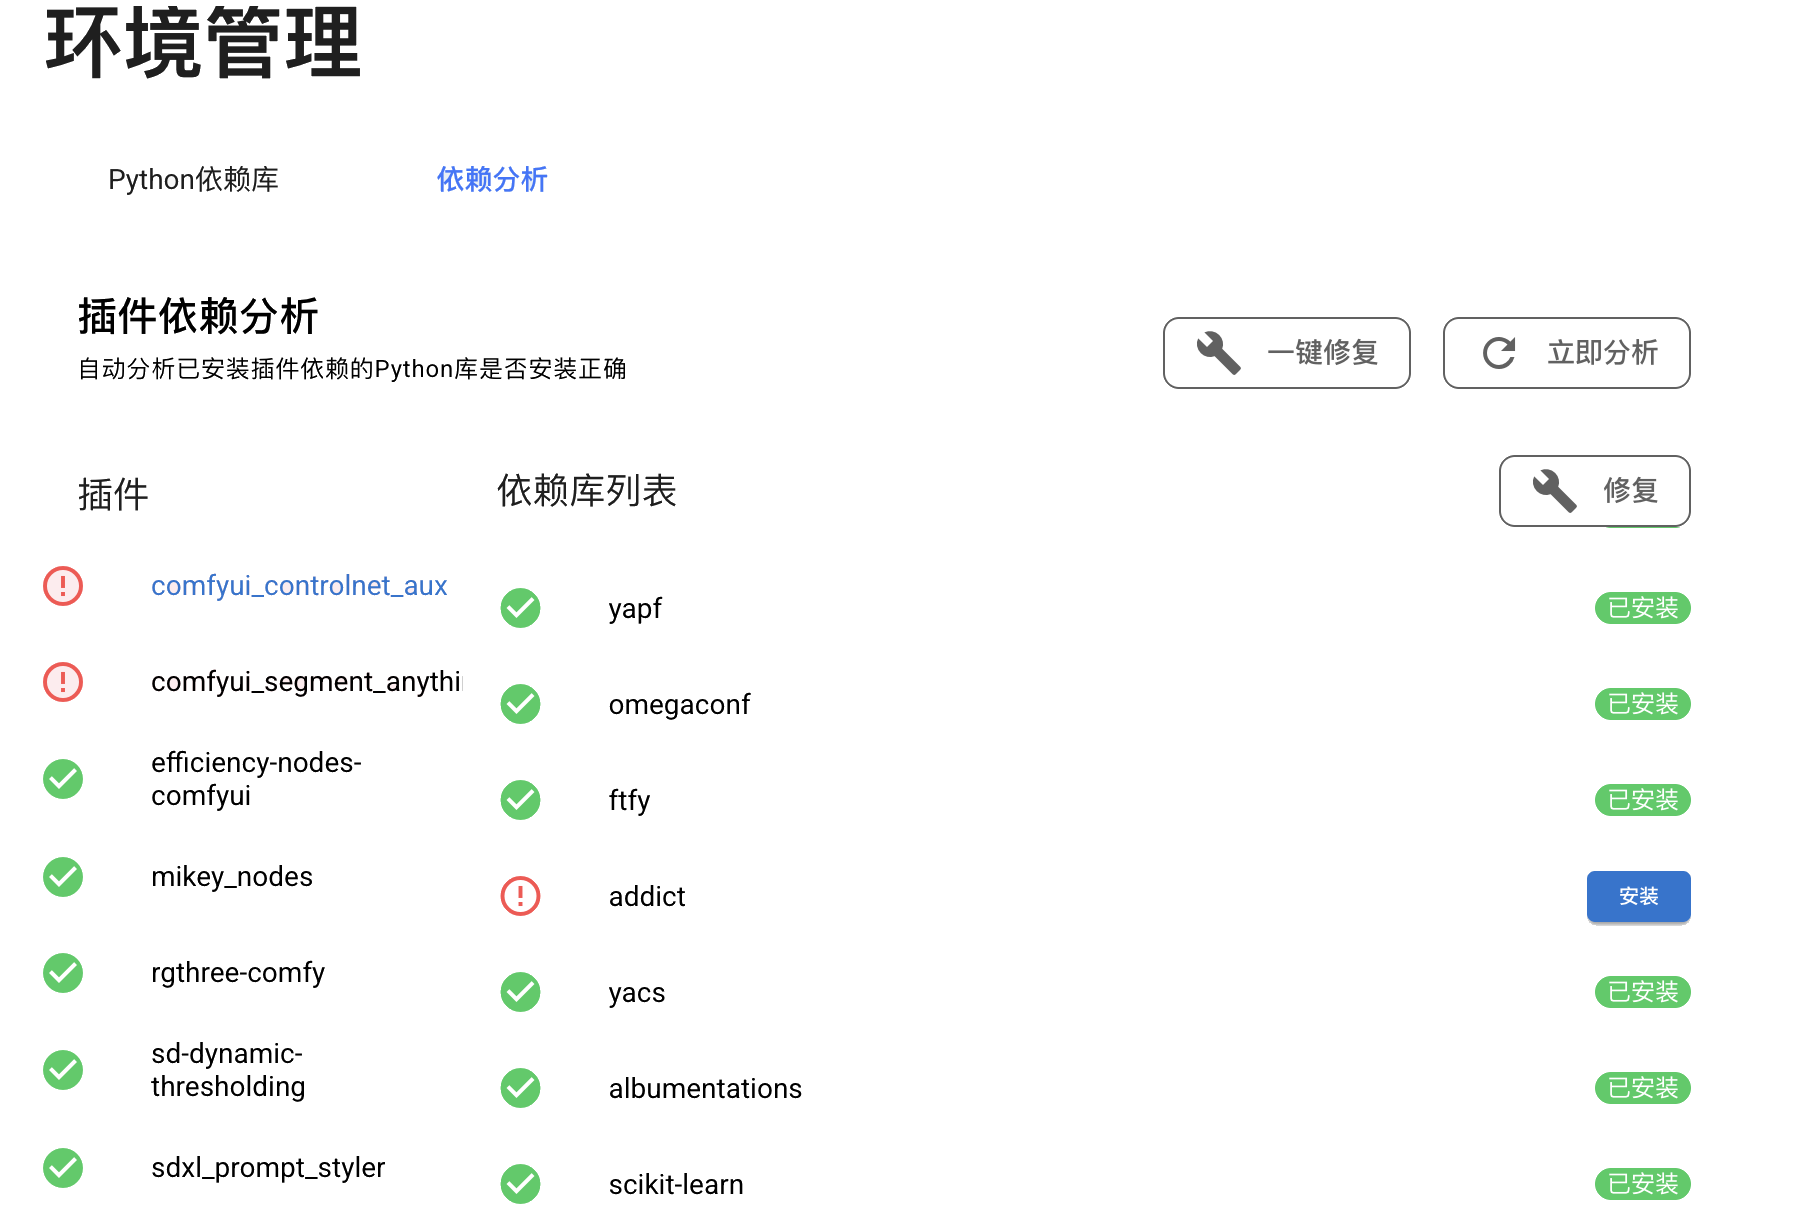
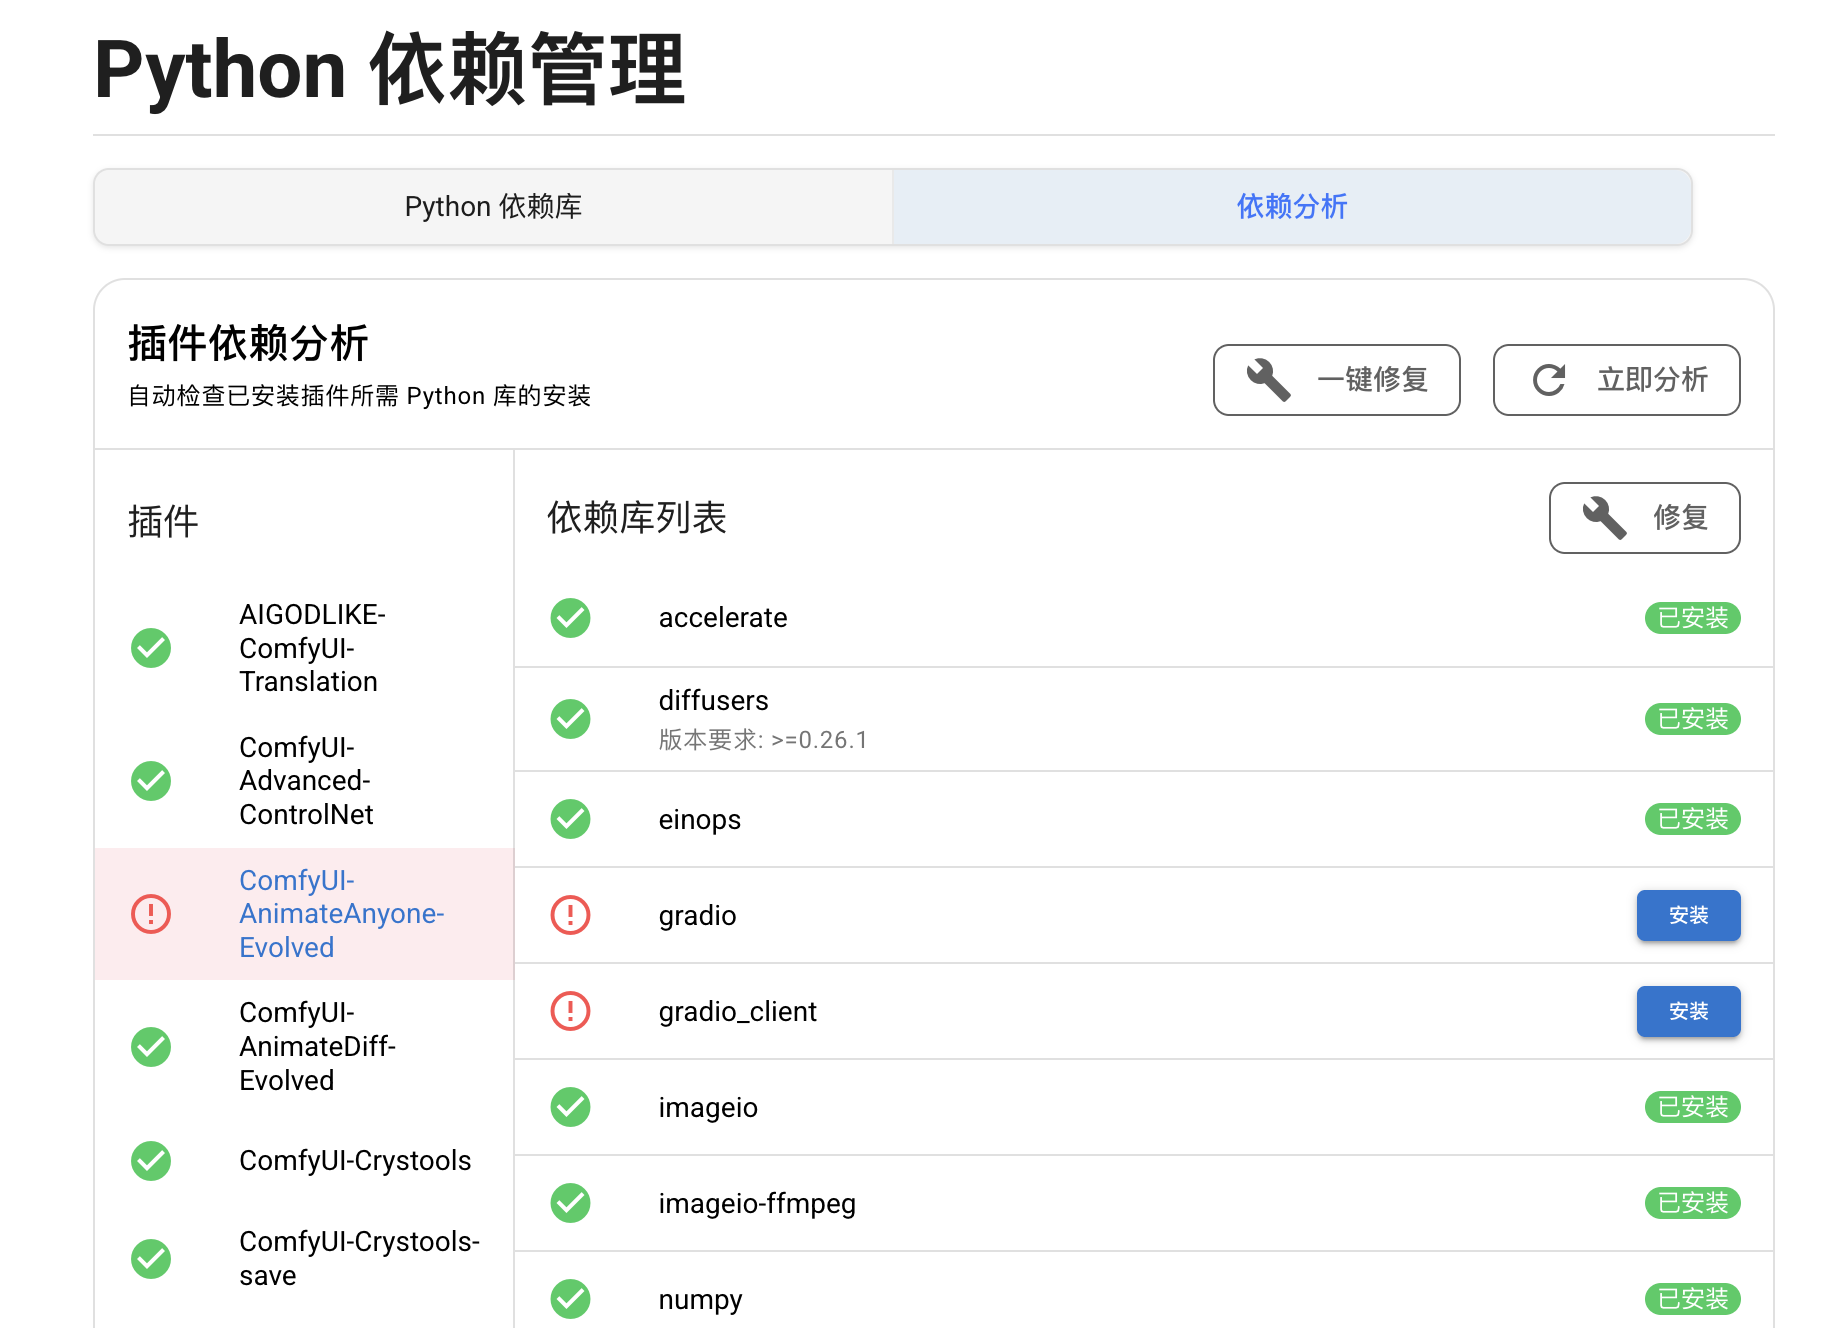
batch update images for en

diff --git a/docs/.vitepress/en.ts b/docs/.vitepress/en.ts
@@ -93,6 +93,13 @@ const side = {
         {
           text: "ComfyUI",
           link: "/manual/use-cases/comfyui",
+          collapsed: true,
+          items: [
+            {
+              text: "Manage ComfyUI",
+              link: "/manual/use-cases/comfyui-launcher",
+            },
+          ]
         },
         {
           text: "Ollama",

diff --git a/docs/manual/use-cases/comfyui-launcher.md b/docs/manual/use-cases/comfyui-launcher.md
@@ -10,137 +10,173 @@ This document guides you on how to use ComfyUI Launcher for ComfyUI service mana
 
 ## Start and stop the ComfyUI service
 
-Only after you start the ComfyUI service can you and other members access it using the ComfyUI client interface.
+As the administrator, you must start the ComfyUI service before you and other members can access it using the client interface.
 
 ![Start/Stop ComfyUI service](/images/manual/use-cases/comfyui-start.png#bordered)
 
-* **Start the ComfyUI Service**: Click the **Start** button in the upper-right corner to start the ComfyUI service. 
+* **Start the ComfyUI Service**: Click the **START** button in the upper-right corner to start the ComfyUI service.
     
-    ::: tip First run
-    * Initial startup of the launcher requires environment initialization, which typically takes 10-20 seconds.
-    * If the system prompts that necessary basic models are missing, you can click **Start anyway** to continue. However, note that workflows may not run correctly if basic models are missing. It is recommended to download the necessary basic model package after the initial installation.
+    ::: tip Notes on first run
+    * Initial startup of ComfyUI Launcher typically takes 10-20 seconds for environment initialization.
+    * If the system prompts that essential models are missing, you can click the **START ANYWAY** button to launch the service. However, note that workflows may not run correctly if basic models are missing. It is recommended to download the essential model package before starting the service.
     :::
 
-* **Stop the ComfyUI Service**: If you are not using ComfyUI for the moment, click the **Stop** button to pause the service. This will release the VRAM and memory resources occupied by ComfyUI.
+* **Stop the ComfyUI Service**: If you are not using ComfyUI for the moment, click the **STOP** button to stop the service. This releases the VRAM and memory resources occupied by ComfyUI.
 
 ## Manage models
 
 :::tip Note
-Before installing models, ensure your host can access GitHub and HuggingFace. For details, refer to [Check and set network](#check-and-set-network).
+Before installing models, ensure your host can access GitHub and HuggingFace. For details, refer to [Configure network](#configure-network).
 :::
 
-ComfyUI Launcher provides flexible ways to install models. You can install the essential models with one click, manually install from the built-in model library, or copy from external sources.
+ComfyUI Launcher provides flexible ways to install models. You can install the essential models with one click, manually install from Hugging Face, or copy from external sources.
 
-### Install essential models with one click
+### Install essential models
 
-Essential models are basic models required for ComfyUI to run, including SD large models, VAE, preview decoders, and auxiliary tools models. It is recommended to install the essential package when running for the first time.
+Essential models are basic models required for ComfyUI to run, including SD large models, VAE, preview decoders, and auxiliary tools models. It is recommended to install the essential package when running ComfyUI for the first time.
 
-1. Access the essential model package installation page using either of the following:
-    - In the **Missing essential models** prompt window that appears when starting the service for the first time, click **Install models**.
-    * In the **Package installation** section on the homepage, find **Essential model package**, and click **Download**.
+1. Access the essential model package page in either of the following methods:
+    - In the **Missing essential models** prompt window that appears when starting the service for the first time, click **INSTALL MODELS**.
+    * In the **Package installation** section on the homepage, find **Essential model package**, and click **VIEW**.
 
-2. On the essential model installation page, click **Install models** to start the automatic installation. You can view the installation status via the progress bar below.
-    ![Install Resource Package](/images/zh/manual/use-cases/comfyui-install-model.png#bordered)
+2. On the essential model installation page, click **GET ALL RESOURCES** to start the automatic installation. You can view the installation status via the progress bar below.
+    
+    ![Install resource package](/images/manual/use-cases/comfyui-install-essential.png#bordered)
 
 ### Manually download models
 
-In addition to basic models, ComfyUI Launcher also includes a built-in HuggingFace model library, allowing you to easily find and download the models you need.
+In addition to the essential models, ComfyUI Launcher also supports downloading models from the HuggingFace model library, allowing you to easily get the models you need.
 
-1. Navigate to **Model management** from the left sidebar.
+<Tabs>
+<template #Download-from-builtin-library>
+Follow these steps to download a model the built-in HuggingFace library:
+
+1. Navigate to **Model management**.
 2. Scroll down to the **Available models** section, and find the desired model by category or keyword.
-3. Click the <i class="material-symbols-outlined">download</i> button to download and install the model.
+3. Click the <i class="material-symbols-outlined">download</i> button to download the model.
 
-    ![Manually download](/images/manual/use-cases/comfyui-download-model.png#bordered)
+    ![Library download](/images/manual/use-cases/comfyui-model-library-download.png#bordered)
+
+</template>
+<template #Custom-download-via-link>
+If you can't find a specific model in the built-in library, you can still download it via the model URL on Hugging Face:
+
+1. Navigate to **Model management** > **Custom Download**.
+2. Fill in the model URL and select the destination path.
+3. Click **DOWNLOAD MODEL**.
+
+    ![Custom download](/images/manual/use-cases/comfyui-custom-model-download.png#bordered)
+</template>
+</Tabs>
 
 :::tip Upload external models
-If you can't find the desired model in the built-in model library, you can also use **Files** to upload externally downloaded models to the following model directory:
+If you can't find the desired model on Hugging Face, you can use **Files** to upload external models to the following directory:
 
  `External Devices/ai/model`
 :::
 
-### Delete models
+### Delete a model
 
-To delete a specific model:
+To delete a model:
 
-1.  Navigate to **Model management** from the left sidebar.
-2.  Under the **Installed models** section, find the model you want to delete, and click the <i class="material-symbols-outlined">delete</i> button on the right to delete it permanently.
+1. Navigate to **Model management** > **Model library**.
+2. Under the **Installed models** section, find the model you want to delete, and click the <i class="material-symbols-outlined">delete</i> button on the right to delete it permanently.
 
 ## Manage plugins
 
-You can manage plugins through ComfyUI's built-in ComfyUI-Manager, or use **Plugin management** in the Launcher.
+You can manage plugins through ComfyUI's built-in ComfyUI-Manager or use **Plugin management** in the Launcher.
 
-![Manage Plugins](/images/zh/manual/use-cases/comfyui-manage-plugin.png#bordered)
+![Manage plugins](/images/manual/use-cases/comfyui-manage-plugin.png#bordered)
 
-1.  Navigate to **Plugin management** from the left sidebar.
-2.  Under **Plugin Library** > **Available Plugins**, select the target plugin:
+### Manage available plugins
+
+To manage available plugins registered in ComfyUI Manager:
+
+1. Navigate to **Plugin management** > **Plugin Library**.
+2. Under **Available plugins**, select the target plugin:
     * Click the <i class="material-symbols-outlined">pause</i> button to disable the currently running plugin, and click the <i class="material-symbols-outlined">play_circle</i> button to resume running.
     * Click the <i class="material-symbols-outlined">delete</i> button to delete the plugin.
     * Click the <i class="material-symbols-outlined">download</i> button to download the plugin.
     * Click the <i class="material-symbols-outlined">visibility</i> button to view plugin details.
-    * Click the **Update all plugins** button to update plugins.
+    * Click the **UPDATE ALL PLUGINS** button to update all installed plugins.
+    * Click the **REFRESH** button to refresh the plugin status.
+
+### Download plugin from GitHub
+
+To install plugins directly from GitHub repositories:
+
+1. Navigate to **Plugin management** > **Custom Install**.
+2. In the GitHub URL input box, fill in the URL of the repository. Leave the branch empty to use the default branch.
+3. Click **INSTALL PLUGIN**.
 
 ## Manage Python environment
 
-ComfyUI's operation relies on a set of complex Python dependency libraries. You can manage these libraries easily on the **Environment Management** page, including installing new libraries, updating or removing installed libraries, analyzing plugin dependency status, and fixing installation errors.
+ComfyUI's operation relies on a set of complex Python dependency libraries. You can manage these libraries easily on the **Python dependency management** page.
 
-![Manage Python Environment](/images/zh/manual/use-cases/comfyui-manage-python.png#bordered)
+![Manage Python libraries](/images/manual/use-cases/comfyui-manage-python.png#bordered)
 
 ### Install new dependency libraries
 
-1.  Under the **Python dependency libraries** tab, click **Install new library**.
-2.  Enter the library name and version number (optional), and then click **Install**.
+To install a new dependency library:
+
+1. Navigate to **Python dependencies**.
+2. click **INSTALL NEW PACKAGE**.
+3. In the pop-up window, enter the library name and version number (optional), and then click **INSTALL**.
 
 ### Manage installed dependency libraries
 
-1.  Under **Python dependency libraries** > **Installed Python libraries**, find the Python library you want to manage.
-2.  Click the <i class="material-symbols-outlined">arrow_upward</i> button on the right to update the library, or the <i class="material-symbols-outlined">delete</i> button to remove it.
+1. Under **Installed Python packages**, find the Python library you want to manage.
+2. Click the <i class="material-symbols-outlined">arrow_upward</i> button on the right to update the library, or the <i class="material-symbols-outlined">delete</i> button to remove it.
 
 ### Analyze dependency installation status
 
-1.  Under the **Dependency analysis** tab, click **Analyze now** to start analyzing.
-2.  From the plugins list, find the problematic plugin highlighted in red, and click on it.
-3.  From the **Dependency library list**, find the missing library for the plugin, and click the **Install** button on the right. You can also click **Fix all** to automatically install all missing libraries.
-    ![Analyze dependencies](/images/zh/manual/use-cases/comfyui-analyze-dependency.png#bordered)
+1. Under the **Dependency analysis** tab, click **ANALYZE NOW** to start analyzing.
+2. From the plugins list on the left, find the problematic plugin highlighted in red, and click on it.
+3. From **Dependency list**, find the missing library for the plugin, and click the **Install** button on the right. You can also click **FIX ALL** to automatically install all missing libraries.
+    ![Analyze dependencies](/images/manual/use-cases/comfyui-analyze-dependency.png#bordered)
 
 ## Troubleshooting and maintenance
 
-ComfyUI Launcher also provides tools to help diagnose and maintain the ComfyUI service.
+ComfyUI Launcher provides tools to help diagnose and maintain the ComfyUI service.
 
-### Check and configure network
+### Configure network
 
 Network connection issues can affect the download of models and plugins. Before using ComfyUI, it's recommended to check the connection status to GitHub, PyPI, and HuggingFace on the Launcher homepage.
 
-![Check network status](/images/zh/manual/use-cases/comfyui-view-network.png#bordered)
+![Check network status](/images/manual/use-cases/comfyui-check-network.png#bordered)
 
-If a website, GitHub for example, is inaccessible:
+For example, if GitHub is inaccessible:
 
-1.  Navigate to the **Network Configuration** page from the left sidebar.
-2.  In the list, switch the provided URLs for the website until the network status becomes "Accessible".
+1. Navigate to the **Network configuration**.
+2. Switch the provided URLs for GitHub.
+3. Click the **CHECK** button on the right to refresh the connection status. 
 
-![Switch network](/images/zh/manual/use-cases/comfyui-change-network.png#bordered)
+Repeat steps 2 and 3 until the network becomes "Accessible".
+
+![Switch network](/images/manual/use-cases/comfyui-change-network.png#bordered)
 
 ### Export ComfyUI logs
 
 You can export logs to diagnose the current running status of ComfyUI:
 
-![Export Logs](/images/zh/manual/use-cases/comfyui-log.png#bordered)
+![Export Logs](/images/manual/use-cases/comfyui-log.png#bordered)
 
-1.  In the upper-right corner of the Launcher homepage, click <i class="material-symbols-outlined">more_vert</i>, then click **View logs** to view the current running logs.
-2.  Below the logs, click the <i class="material-symbols-outlined">refresh</i> button to refresh the logs, and the <i class="material-symbols-outlined">download</i> button to download the logs.
+1. In the upper-right corner of the Launcher homepage, click <i class="material-symbols-outlined">more_vert</i>, then click **View logs** to view the current running log.
+2. Click the <i class="material-symbols-outlined">refresh</i> button to refresh the log, and the <i class="material-symbols-outlined">download</i> button to download the log.
 
 ### Reset ComfyUI configuration
 
 To reset ComfyUI to its initial state:
 
-![Reset ComfyUI](/images/zh/manual/use-cases/comfyui-reset.png#bordered)
+![Reset ComfyUI](/images/manual/use-cases/comfyui-reset.png#bordered)
 
 1. In the upper-right corner of the Launcher's homepage, click <i class="material-symbols-outlined">more_vert</i>, and select **Wipe and restore**. After a second confirmation, the Launcher will begin the wiping and restoration process.
 
-    :::warning Exercise caution
-    Restoring ComfyUI is an irreversible operation. Please operate carefully.
-    :::
-
 2. After the restoration operation is complete, restart ComfyUI for the changes to take effect.
+
+:::warning Exercise caution
+Restoring ComfyUI is an irreversible operation. Please operate carefully.
+:::
 
 ## Discover inspirations
 

diff --git a/docs/manual/use-cases/comfyui.md b/docs/manual/use-cases/comfyui.md
@@ -19,29 +19,27 @@ ComfyUI puts advanced AI image generation capabilities at your fingertips:
 
 ## Install ComfyUI Shared
 
-Olares provides ComfyUI Shared, an adapted version that allows multiple users to share models, plugins, and workflow resources across the cluster. It also features ComfyUI Launcher, providing administrator users with a simple way to manage ComfyUI resources and runtime environments.
+Olares provides ComfyUI Shared to allow multiple users to share models, plugins, and workflow resources within the cluster. It also features ComfyUI Launcher, providing administrator users with a simple way to manage ComfyUI resources and runtime environments.
 
 ::: tip Note
-Starting from Olares 1.11.6, Shared Applications will replace previous cluster-scoped applications. If you have installed ComfyUI for Cluster and its client, please uninstall them before installing ComfyUI Shared.
+Starting from Olares 1.11.6, Shared applications will replace previous cluster-scoped applications. If you have installed ComfyUI for Cluster and its client, please uninstall them before installing ComfyUI Shared.
 :::
 
-The installation of ComfyUI Shared Edition is divided into two phases: administrator installation and regular user installation.
+To install ComfyUI Shared:
 
-1.  **Administrator installation**. Open Olares Market, find **ComfyUI Shared**, and click **Get**.
+1. Open Olares Market, find **ComfyUI Shared**, and click **Get**.
 
-    After the administrator installation is complete, two icons  appear on the Olares desktop: one is the access point for ComfyUI, and the other is the access point for ComfyUI Launcher.
+    - The administrator will see two icons on the Olares desktop: one is the client interface for ComfyUI, and the other is ComfyUI Launcher. 
 
-    :::tip Start service
-    Only after the administrator configures and starts the service in the ComfyUI Launcher can cluster users access the ComfyUI interface and use workflows.
+    ![Install ComfyUI](/images/manual/use-cases/install-comfyui.png){width=40%}
+
+    - Member users will only see the ComfyUI client interface on the desktop.
+
+    :::tip Start the ComfyUI service
+    The administrator must start the ComfyUI service from the Launcher before all users in the cluster can access the service from the client interface.
     :::
 
-2. **Member installation**. Open Olares Market, find ComfyUI Shared, and click **Get**.
-
-    After the installation is complete, the member user only sees the ComfyUI icon on the desktop.
-
-    ![Install ComfyUI](/images/manual/tutorials/install-comfyui.png){width=40%}
-
-3. After installation is complete, click the ComfyUI icon from the desktop to open it. Administrators can also enter the ComfyUI interface from the ComfyUI Launcher.
+2. Click the ComfyUI icon to open the interface. Administrators can also enter the ComfyUI interface from the Launcher.
 
     ![ComfyUI Interface](/images/manual/use-cases/comfyui.png#bordered)
 
